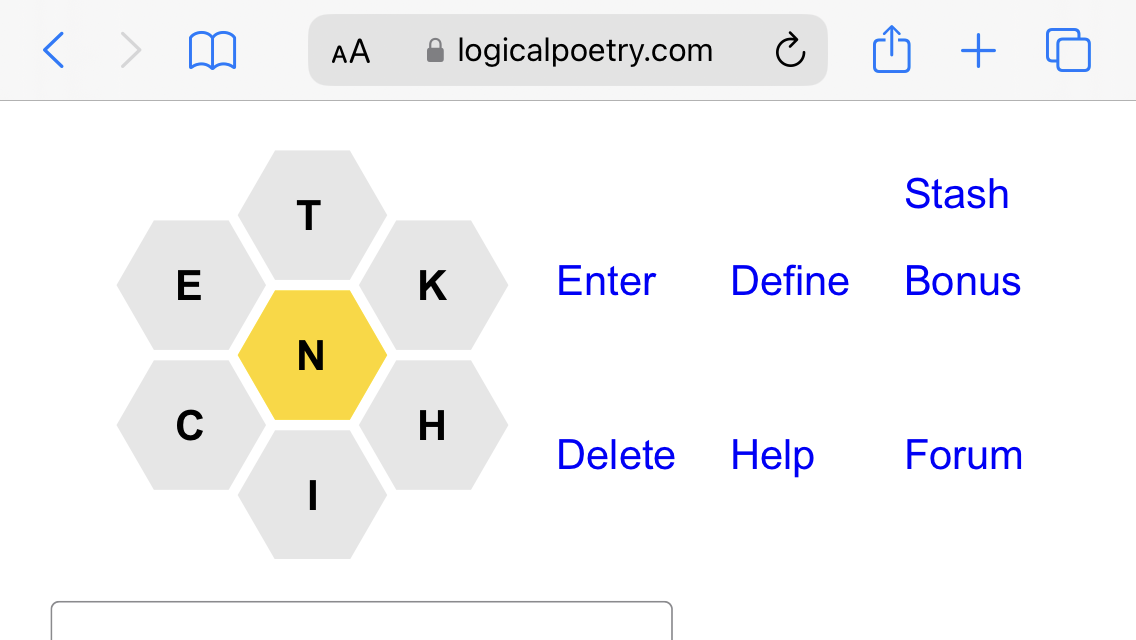
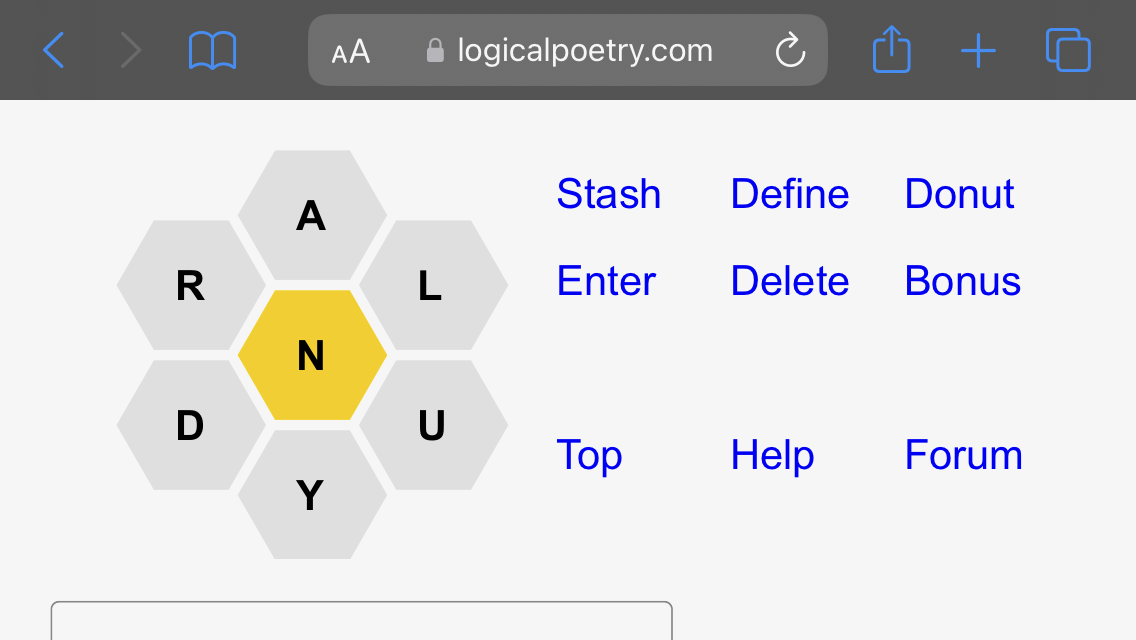
doc for 9 links in mobile mode

diff --git a/nytbee/help.html b/nytbee/help.html
@@ -338,28 +338,32 @@ this is what the screen looks like:
 <img src=pics/nytbee_iPhone.png width=800 border=1>
 <p>
 In this mobile mode the heading has been toggled off.
-There are 7 command links to the right of the hexagon letters:
+There are 9 command links to the right of the hexagon letters:
+<span class=cmd>Stash</span>,
+<span class=cmd>Define</span>,
+<span class=cmd>Donut</span>,
 <span class=cmd>Enter</span>,
 <span class=cmd>Delete</span>,
-<span class=cmd>Define</span>,
-<span class=cmd>Help</span>,
-<span class=cmd>Stash</span>,
 <span class=cmd>Bonus</span>,
+<span class=cmd>Top</span>,
+<span class=cmd>Help</span>,
 and <span class=cmd>Forum</span>.
 <p>
 Tapping on letters will copy them to the area on the right:
 <p>
-<img src=pics/kitchen.png width=800 border=1>
+<img src=pics/laundry.png width=800 border=1>
 <p>
 Tap on <span class=cmd>Enter</span> to submit the word.
 <br>
 Tap on <span class=cmd>Delete</span> to remove letters.
 <br>
+Tap on <span class=cmd>Stash</span> to add the word to <a href=#stash>The Stash</a>.
+<br>
 Tap on <span class=cmd>Define</span> to do a <span class=cmd>DR</span> command to define a random unfound word.
 <br>
 Tap on <span class=cmd>Help</span> to bring up this document in a separate browser window.  
 <br>
-Tap on <span class=cmd>Stash</span> to add the word to <a href=#stash>The Stash</a>.
+Tap on <span class=cmd>Donut</span> to switch into <a href=#donut>Donut Mode</a>.
 <br>
 Tap on <span class=cmd>Bonus</span> to switch into <a href=#bonus_mode>Bonus Mode</a>.
 <br>
@@ -373,8 +377,9 @@ Android phones will behave in a similar way.
 If you are playing on an iPad or Tablet with a touch screen
 you can use the <span class=cmd>MO</span> command to toggle into "mobile mode".
 <p>
-If you are adept at texting with your thumbs you may prefer using the <span class=cmd>H2</span> command to display the letters in a line - like this:
+If you are adept at texting with your thumbs you may prefer using the <span class=cmd>H</span> command to toggle between the hexagon and having the letters arranged in a line (as in normal words) - like this:
 <p>
+<!-- ignore the h3 - there used to be 4 ways of arranging the letters -->
 <img src=pics/kitchen_h3.png width=800 border=1>
 <a name=hint_commands></a>
 <h2>Hint Commands
